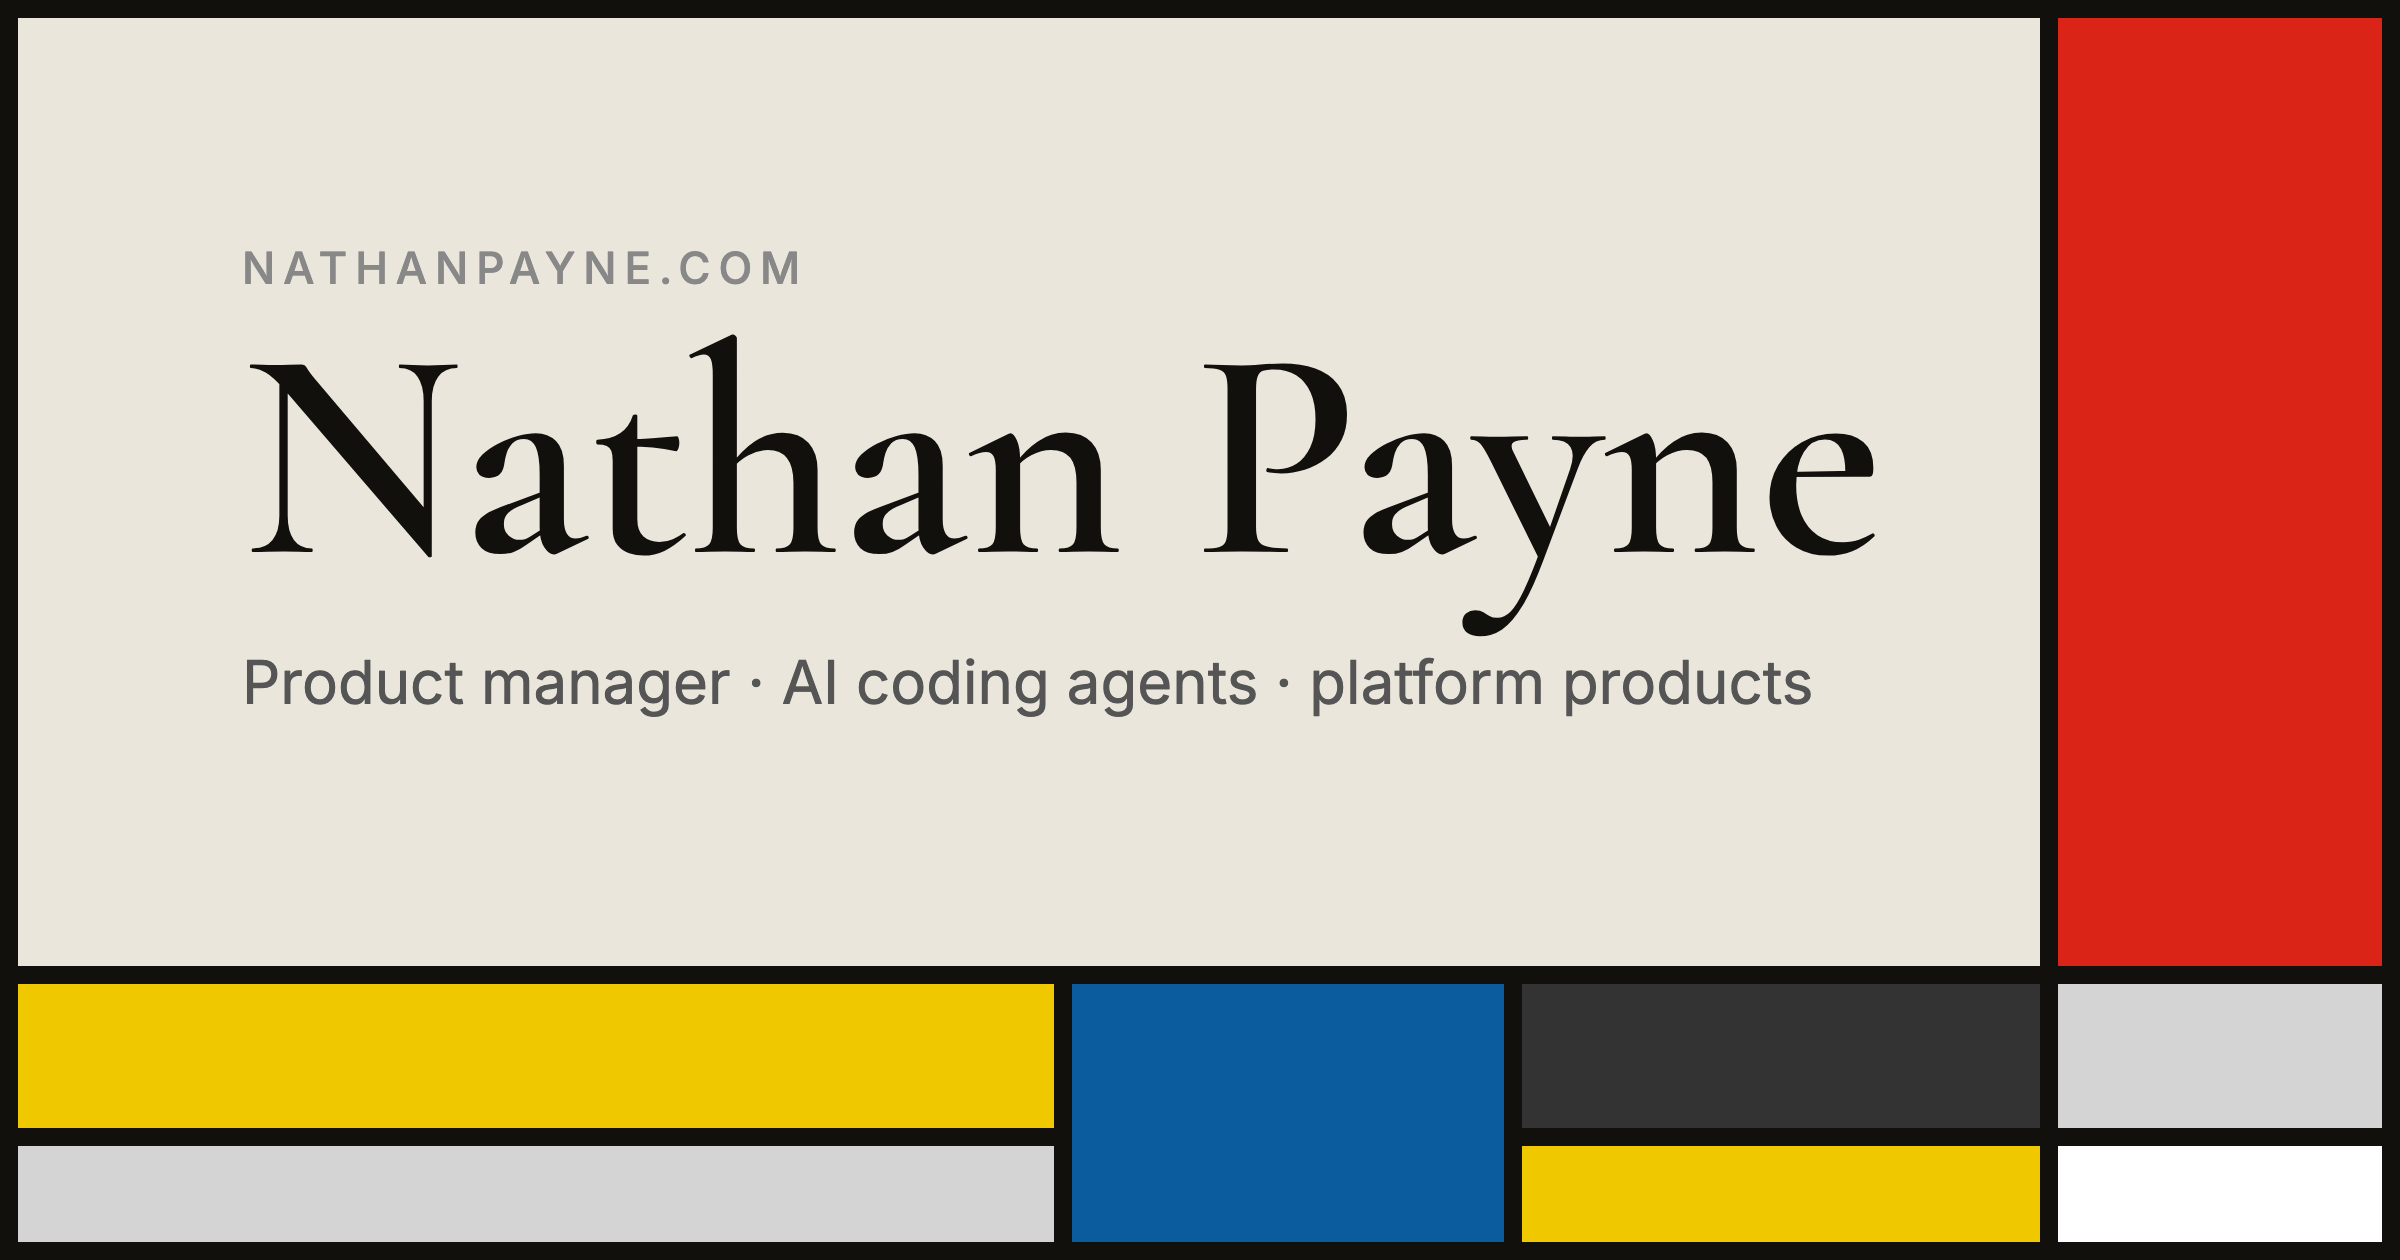
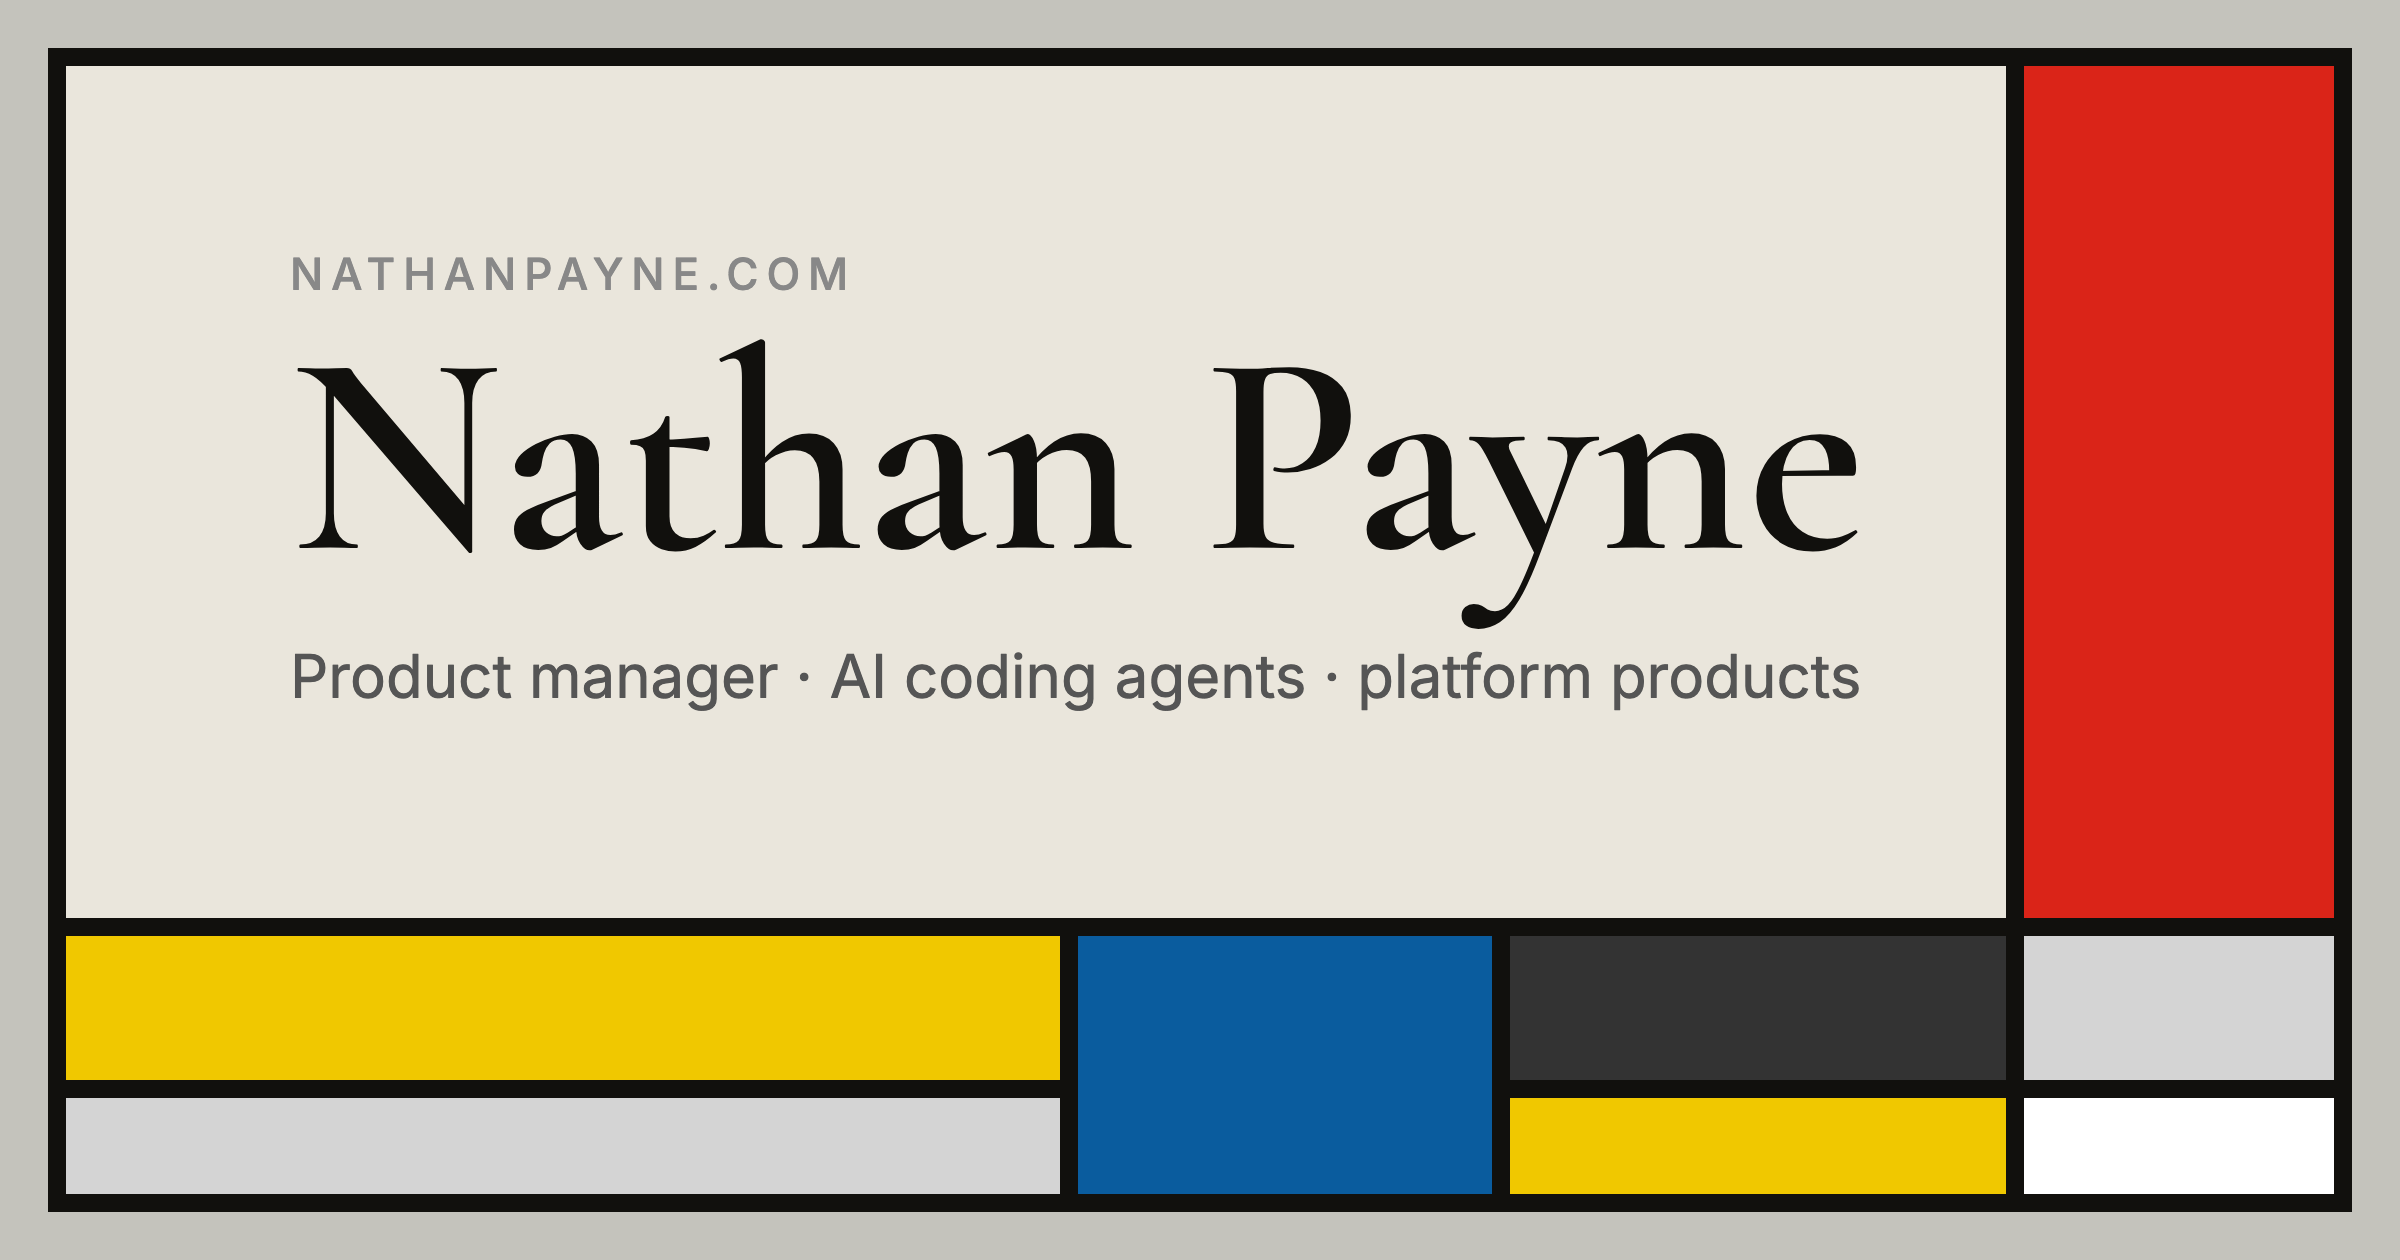
Keep a thin gray margin around the homepage OG card
#1090 ran the frame to the image edges so Safari's Start Page side trim
would cut colored blocks rather than the frame. iMessage rounds the
preview image's corners, though, and clipped the frame there.

The crop-safe variant now keeps a 24px stage margin (no shadow). A frame
clears a rounded corner once the margin exceeds about 0.3x the radius,
and the radius is about 30px at this scale in iMessage and about 65px
on a Safari tile. The name drops from 150px to 144px to keep its
right-edge clearance in the narrower card. The `bleed` prop is renamed
`cropSafe`, since the frame no longer bleeds.

diff --git a/tests/og-card-crop-safe.test.js b/tests/og-card-crop-safe.test.js
@@ -1,0 +1,68 @@
+import { describe, expect, it } from 'vitest';
+import { readFileSync } from 'fs';
+import { resolve } from 'path';
+
+const ROOT = resolve(__dirname, '..');
+const OG_CARD = resolve(ROOT, 'src/layouts/OgCard.astro');
+const HOME_TEMPLATE = resolve(ROOT, 'src/pages/og-templates/home.astro');
+const GLOBAL_CSS = resolve(ROOT, 'src/styles/global.css');
+
+function cropSafeRule(selector) {
+  const css = readFileSync(GLOBAL_CSS, 'utf-8');
+  const escaped = selector.replace(/[.*+?^${}()|[\]\\]/g, '\\$&');
+  const rule = css.match(new RegExp(`${escaped} \\{([^}]*)\\}`));
+  expect(rule, `${selector} rule`).not.toBeNull();
+  return rule[1];
+}
+
+// padding shorthand → [top, right, bottom, left] in px.
+function paddingOf(body) {
+  const parts = body
+    .match(/padding:\s*([^;]+);/)[1]
+    .trim()
+    .split(/\s+/)
+    .map((v) => parseInt(v, 10));
+  const [t, r = t, b = t, l = r] = parts;
+  return [t, r, b, l];
+}
+
+// Safari's Start Page tiles crop OG images to ~1.67:1 and show them ~225pt
+// wide; iMessage rounds their corners. The homepage card uses the crop-safe
+// variant so neither crop reaches the frame or the text.
+describe('OG card crop-safe variant', () => {
+  it('lets OgCard opt into the crop-safe modifier', () => {
+    const source = readFileSync(OG_CARD, 'utf-8');
+
+    expect(source).toMatch(/cropSafe\?:\s*boolean;/);
+    expect(source).toMatch(/'og-shell--crop-safe':\s*cropSafe/);
+  });
+
+  it('renders the homepage card crop-safe with a one-line tagline', () => {
+    const source = readFileSync(HOME_TEMPLATE, 'utf-8');
+
+    expect(source).toMatch(/^\s*cropSafe\s*$/m);
+    // The tagline is `white-space: nowrap` inside an `overflow: hidden` box, so
+    // a long one is clipped rather than wrapped. The build's rendered-fit gate
+    // measures this for real (#1093); the cap is the cheap early warning.
+    const tagline = source.match(/description="([^"]*)"/);
+    expect(tagline).not.toBeNull();
+    expect(tagline[1].length).toBeLessThanOrEqual(55);
+  });
+
+  it('keeps a stage margin that clears rounded preview corners', () => {
+    // A frame clears a rounded corner once the margin exceeds ~0.3× the
+    // radius: ~30px (iMessage) and ~65px (Safari tile) at the 1200px scale.
+    const [top, right, bottom, left] = paddingOf(cropSafeRule('.og-shell--crop-safe'));
+    for (const side of [top, right, bottom, left]) {
+      expect(side).toBeGreaterThanOrEqual(20);
+    }
+  });
+
+  it("keeps the text inset deeper than Safari's side trim", () => {
+    // Safari trims ~75px off each side of the 1200px card; the text starts at
+    // the stage margin plus the content inset.
+    const [, , , margin] = paddingOf(cropSafeRule('.og-shell--crop-safe'));
+    const [, , , inset] = paddingOf(cropSafeRule('.og-shell--crop-safe .og-content'));
+    expect(margin + inset).toBeGreaterThan(75);
+  });
+});

diff --git a/src/styles/global.css b/src/styles/global.css
@@ -4052,16 +4052,21 @@ a.tag:hover {
   background: var(--paper);
 }
 
-/* Crop-safe variant (OgCard `bleed`). Safari's Start Page tiles aspect-fill
-   the card into ~1.67:1, trimming ~6% (~75px here) off each side, and show it
-   ~225pt wide. So: no stage margin or shadow to get sliced, a wider red
-   column that survives the trim, a left inset deeper than the trim, a
-   heading big enough to read at tile size, and at most a one-line tagline. */
-.og-shell--bleed {
-  padding: 0;
+/* Crop-safe variant (OgCard `cropSafe`). Two crops shape it:
+   - Safari's Start Page tiles aspect-fill the card into ~1.67:1, trimming ~6%
+     (~75px here) off each side, and show it ~225pt wide. Hence a wider red
+     column that survives the trim, a left inset that clears it, a heading
+     big enough to read at tile size, and at most a one-line tagline.
+   - iMessage and other unfurls round the image's corners (~30px radius at
+     this scale; Safari's tile ~65px). A frame run to the image edge gets its
+     corners clipped, so a thin stage margin keeps the frame inside the curve.
+     It clears a corner once it exceeds ~0.3× the radius; 24px covers both.
+   No drop shadow: the margin is too thin to hold one. */
+.og-shell--crop-safe {
+  padding: 24px;
 }
 
-.og-shell--bleed .og-card {
+.og-shell--crop-safe .og-card {
   grid-template-columns: var(--line) 2.4fr var(--line) 1fr var(--line) 1.2fr var(--line) 0.75fr var(
       --line
     );
@@ -4070,17 +4075,17 @@ a.tag:hover {
   box-shadow: none;
 }
 
-.og-shell--bleed .og-content {
+.og-shell--crop-safe .og-content {
   padding: 48px 64px 48px 112px;
 }
 
-.og-shell--bleed .og-label {
+.og-shell--crop-safe .og-label {
   font-size: 22px;
   margin-bottom: 10px;
 }
 
-.og-shell--bleed .og-heading {
-  font-size: 150px;
+.og-shell--crop-safe .og-heading {
+  font-size: 144px;
   line-height: 0.95;
   margin: 0 0 22px;
   white-space: nowrap;
@@ -4088,7 +4093,7 @@ a.tag:hover {
 
 /* One line, so it reads as a tagline rather than a paragraph shrunk to
    tile size. Keep the homepage tagline short enough to fit unwrapped. */
-.og-shell--bleed .og-description {
+.og-shell--crop-safe .og-description {
   font-size: 30px;
   max-width: none;
   white-space: nowrap;

diff --git a/docs/css-architecture.md b/docs/css-architecture.md
@@ -98,7 +98,7 @@ represents a page: `og-templates/home.astro` passes `palette="1930"` to
 `OgCard.astro`, so `home.png` matches the homepage register. Other OG cards do
 not pass a palette and stay on the 1921 `:root` default.
 
-The homepage card also passes `bleed`, which runs the frame to the image edges, sets the name at 150px, and replaces the three-line description with a one-line tagline. Safari's Start Page tiles crop OG images to about 1.67:1 and show them about 225pt wide, which sliced the framed card and made its description unreadable. The full description still reaches previews through `og:description`.
+The homepage card also passes `cropSafe`, which thins the stage margin to 24px with no shadow, sets the name at 144px, and replaces the three-line description with a one-line tagline. Safari's Start Page tiles crop OG images to about 1.67:1 and show them about 225pt wide, which sliced the original framed card and made its description unreadable (#1090). Running the frame to the image edge fixed that but let iMessage's rounded corners clip it, so the margin stays, just thin. The full description still reaches previews through `og:description`.
 
 | Page | Accent source |
 |---|---|
